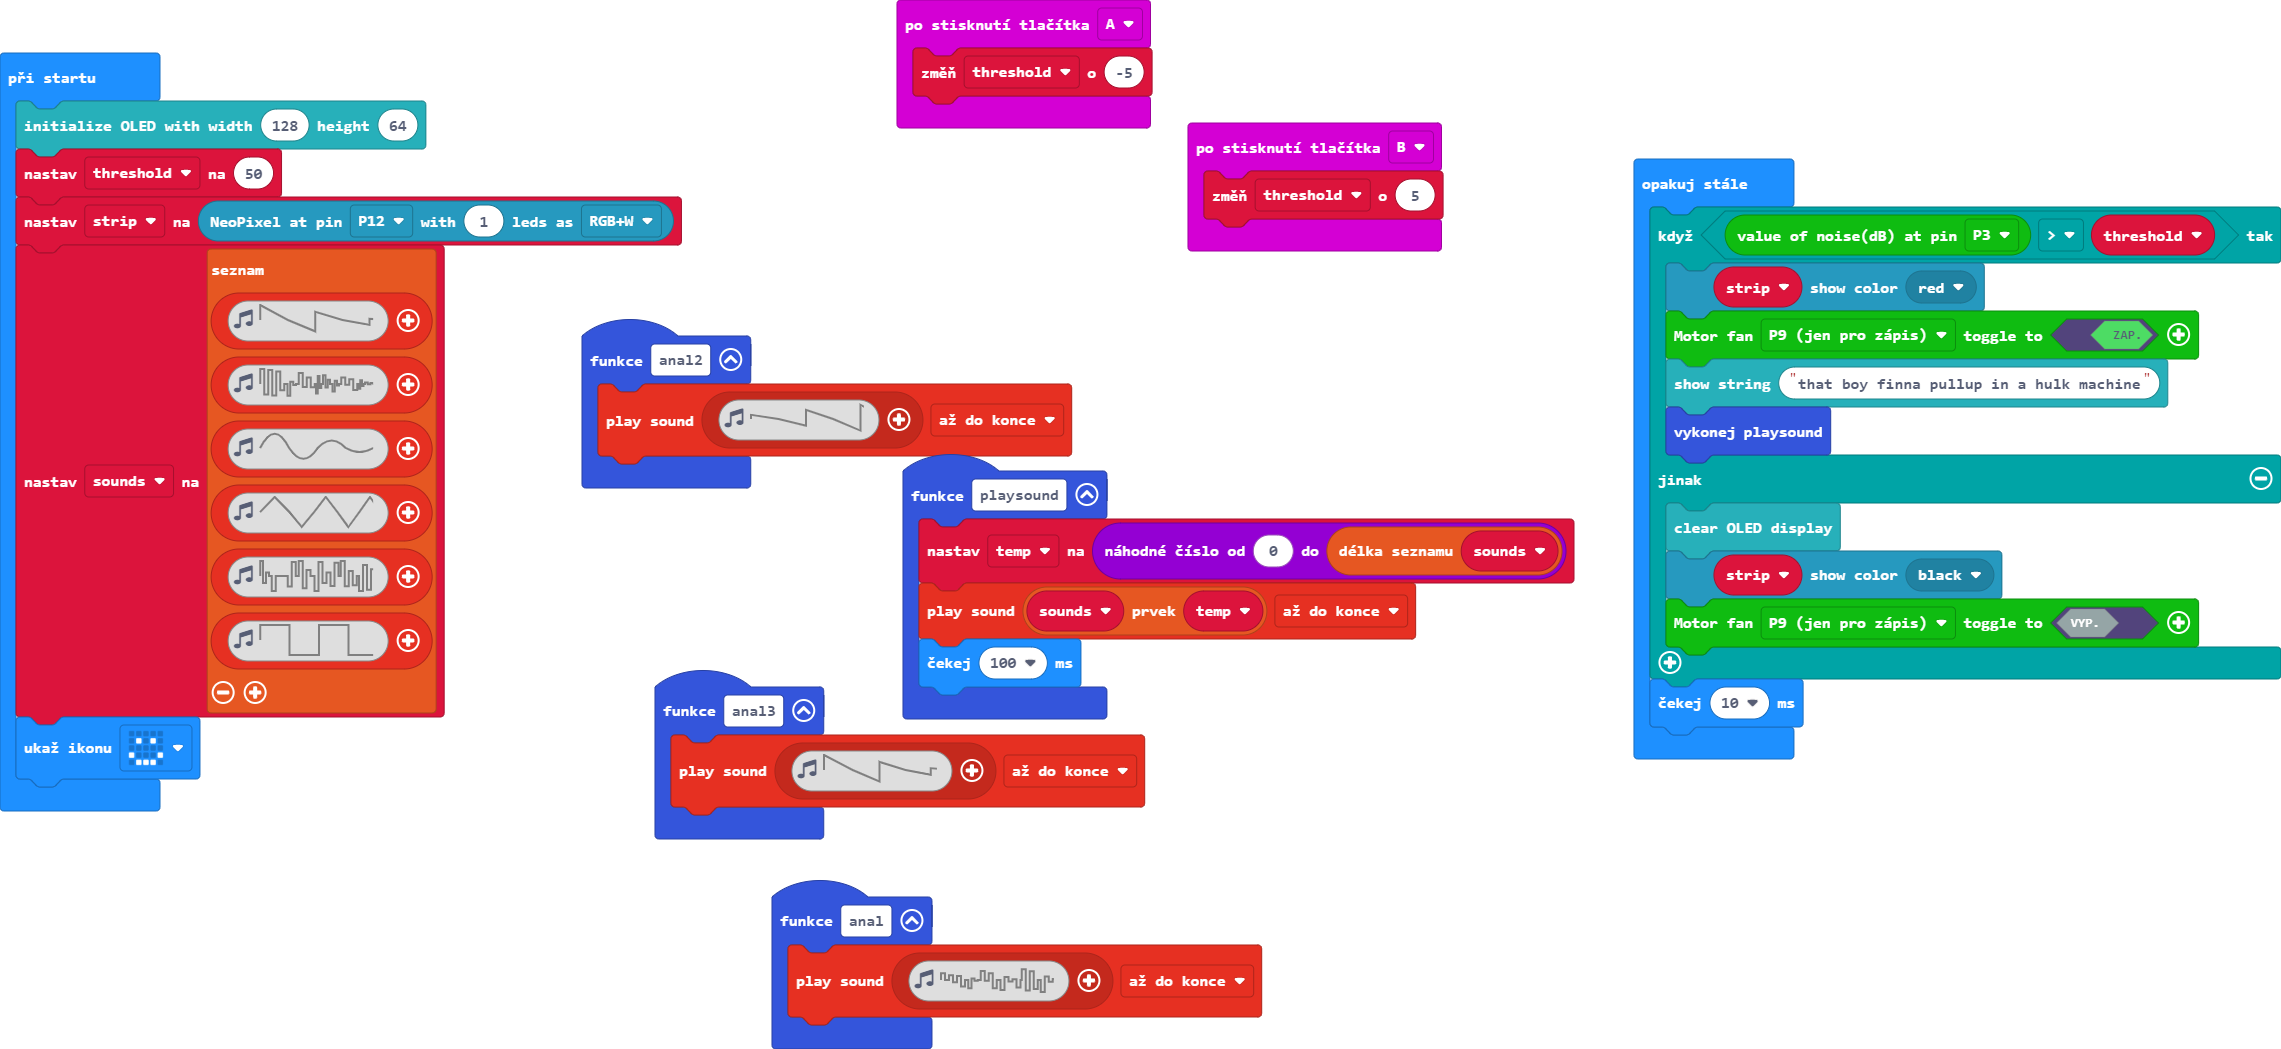
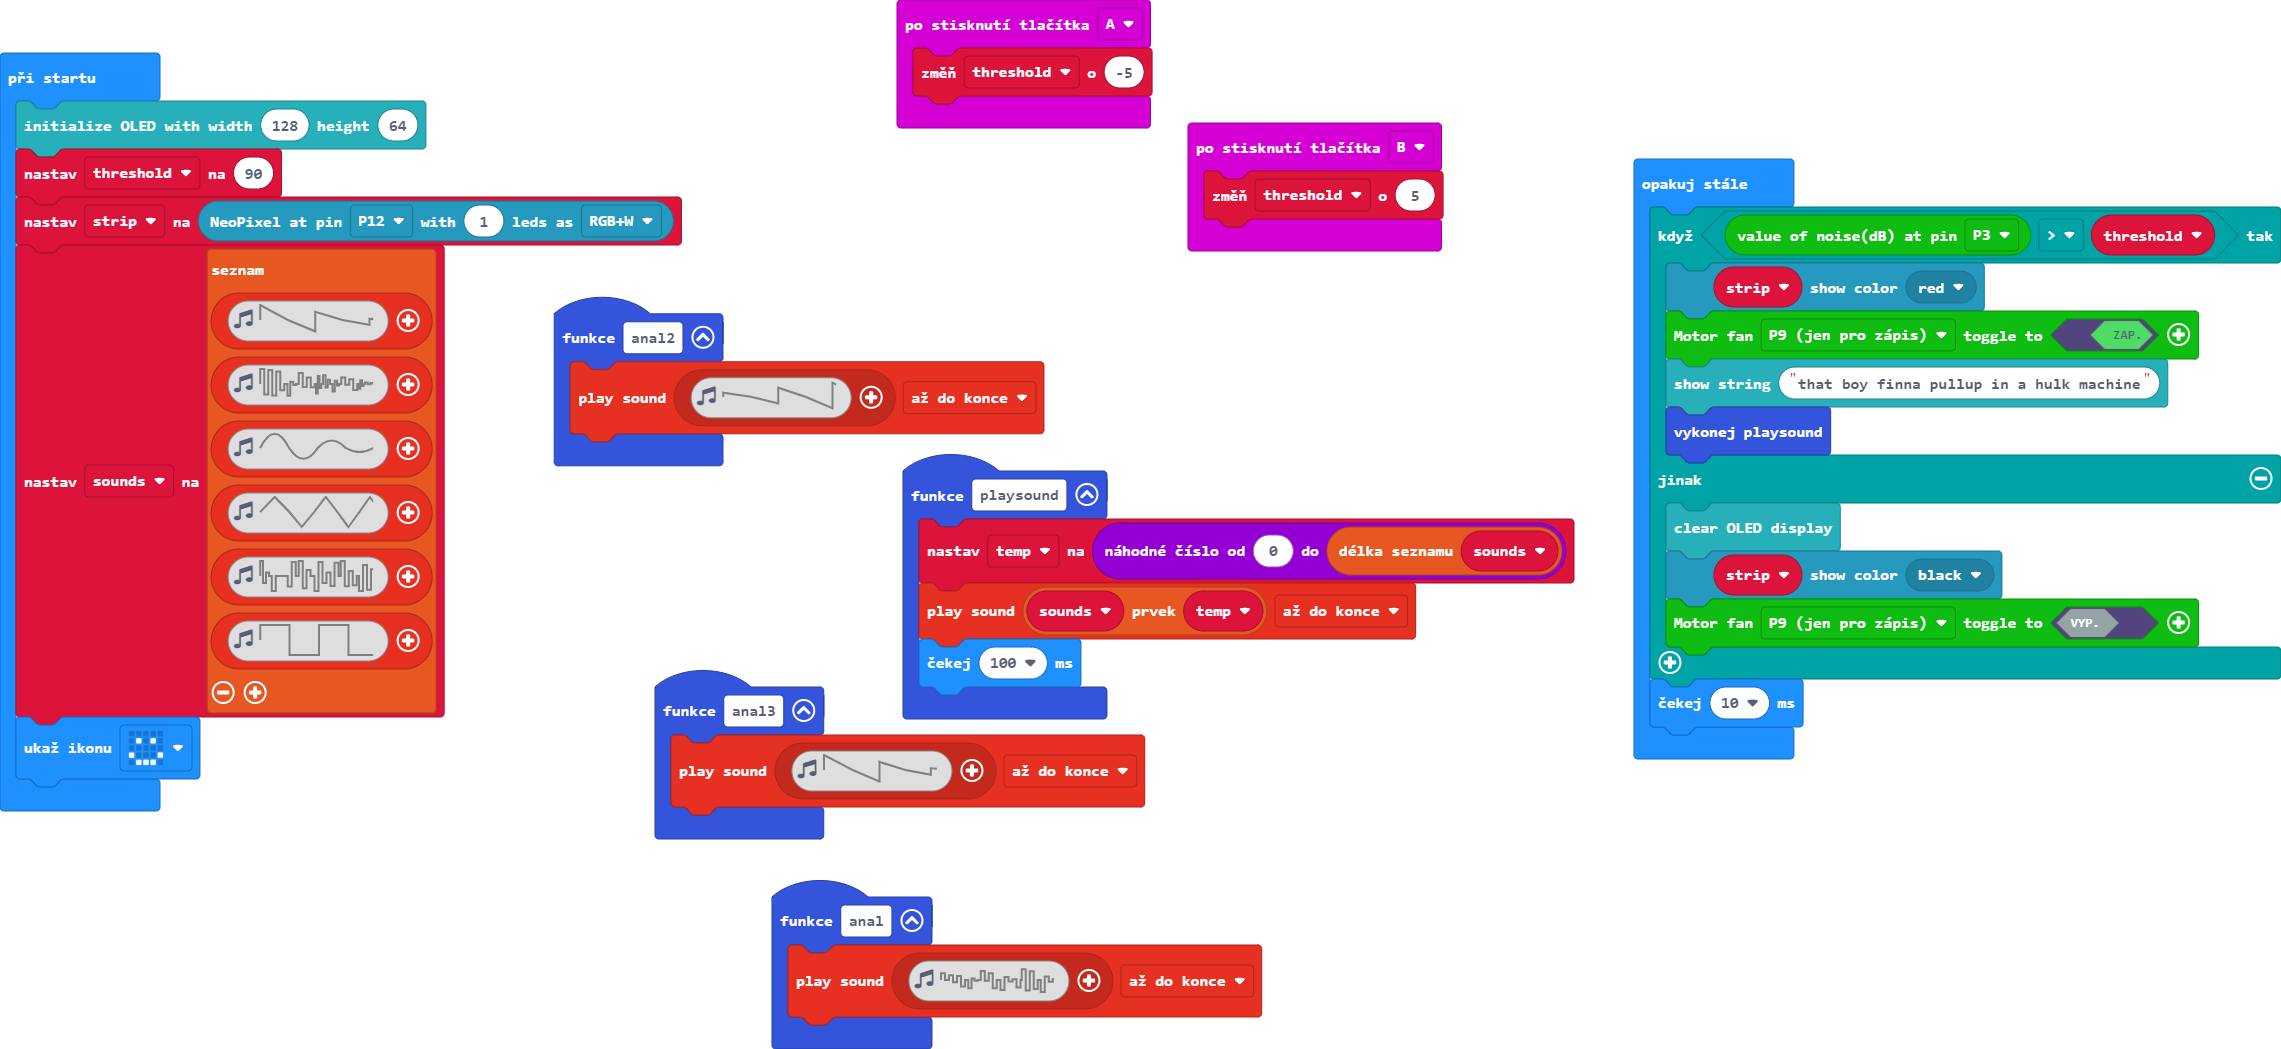
Aktualizovat main.blocks, main.ts, main.py

Changed region(s): [[0.2179, 0.2745, 0.498, 0.4881]]

diff --git a/main.ts b/main.ts
@@ -21,7 +21,7 @@ function anal2 () {
 let temp = 0
 let sounds: string[] = []
 OLED.init(128, 64)
-let threshold = 50
+let threshold = 90
 let strip = neopixel.create(DigitalPin.P12, 1, NeoPixelMode.RGBW)
 sounds = [
 music.createSoundEffect(WaveShape.Sawtooth, 464, 598, 255, 0, 500, SoundExpressionEffect.Tremolo, InterpolationCurve.Curve),

diff --git a/main.py b/main.py
@@ -1,45 +1,113 @@
 def on_button_pressed_a():
     global threshold
-    radio.send_string("hi")
     threshold += -5
 input.on_button_pressed(Button.A, on_button_pressed_a)
 
-def on_received_string(receivedString):
-    music.play_sound_effect(music.builtin_sound_effect(soundExpression.giggle),
+def anal3():
+    music.play_sound_effect(music.create_sound_effect(WaveShape.SAWTOOTH,
+            263,
+            1021,
+            255,
+            0,
+            500,
+            SoundExpressionEffect.TREMOLO,
+            InterpolationCurve.LOGARITHMIC),
         SoundExpressionPlayMode.UNTIL_DONE)
-    basic.show_string("Hello!")
-radio.on_received_string(on_received_string)
+def playsound():
+    global temp
+    temp = randint(0, len(sounds))
+    music.play_sound_effect(sounds[temp], SoundExpressionPlayMode.UNTIL_DONE)
+    basic.pause(100)
 
 def on_button_pressed_b():
     global threshold
     threshold += 5
 input.on_button_pressed(Button.B, on_button_pressed_b)
 
-def on_received_value(name, value):
-    basic.show_string("Hello!")
-radio.on_received_value(on_received_value)
-
-radio.set_group(50)
+def anal():
+    music.play_sound_effect(music.create_sound_effect(WaveShape.NOISE,
+            486,
+            129,
+            114,
+            255,
+            500,
+            SoundExpressionEffect.VIBRATO,
+            InterpolationCurve.CURVE),
+        SoundExpressionPlayMode.UNTIL_DONE)
+def anal2():
+    music.play_sound_effect(music.create_sound_effect(WaveShape.SAWTOOTH,
+            486,
+            575,
+            70,
+            255,
+            500,
+            SoundExpressionEffect.TREMOLO,
+            InterpolationCurve.CURVE),
+        SoundExpressionPlayMode.UNTIL_DONE)
+temp = 0
+sounds: List[str] = []
 OLED.init(128, 64)
 threshold = 50
-points = [43, 86, 21, 42]
-basic.show_icon(IconNames.HEART)
+strip = neopixel.create(DigitalPin.P12, 1, NeoPixelMode.RGBW)
+sounds = [music.create_sound_effect(WaveShape.SAWTOOTH,
+        464,
+        598,
+        255,
+        0,
+        500,
+        SoundExpressionEffect.TREMOLO,
+        InterpolationCurve.CURVE),
+    music.create_sound_effect(WaveShape.NOISE,
+        508,
+        63,
+        255,
+        0,
+        500,
+        SoundExpressionEffect.VIBRATO,
+        InterpolationCurve.CURVE),
+    music.create_sound_effect(WaveShape.SINE,
+        200,
+        600,
+        255,
+        0,
+        150,
+        SoundExpressionEffect.NONE,
+        InterpolationCurve.LINEAR),
+    music.create_sound_effect(WaveShape.TRIANGLE,
+        152,
+        1891,
+        255,
+        255,
+        500,
+        SoundExpressionEffect.WARBLE,
+        InterpolationCurve.LOGARITHMIC),
+    music.create_sound_effect(WaveShape.NOISE,
+        1,
+        1,
+        255,
+        255,
+        500,
+        SoundExpressionEffect.TREMOLO,
+        InterpolationCurve.CURVE),
+    music.create_sound_effect(WaveShape.SQUARE,
+        107,
+        107,
+        255,
+        255,
+        500,
+        SoundExpressionEffect.TREMOLO,
+        InterpolationCurve.LOGARITHMIC)]
+basic.show_icon(IconNames.HAPPY)
 
 def on_forever():
     if smarthome.read_noise(AnalogPin.P3) > threshold:
+        strip.show_color(neopixel.colors(NeoPixelColors.RED))
         smarthome.motor_fan(AnalogPin.P9, True)
         OLED.write_string_new_line("that boy finna pullup in a hulk machine")
-        music.play_sound_effect(music.create_sound_effect(WaveShape.NOISE,
-                1110,
-                1110,
-                255,
-                255,
-                200,
-                SoundExpressionEffect.NONE,
-                InterpolationCurve.LINEAR),
-            SoundExpressionPlayMode.UNTIL_DONE)
+        playsound()
     else:
         OLED.clear()
+        strip.show_color(neopixel.colors(NeoPixelColors.BLACK))
         smarthome.motor_fan(AnalogPin.P9, False)
     basic.pause(10)
 basic.forever(on_forever)
